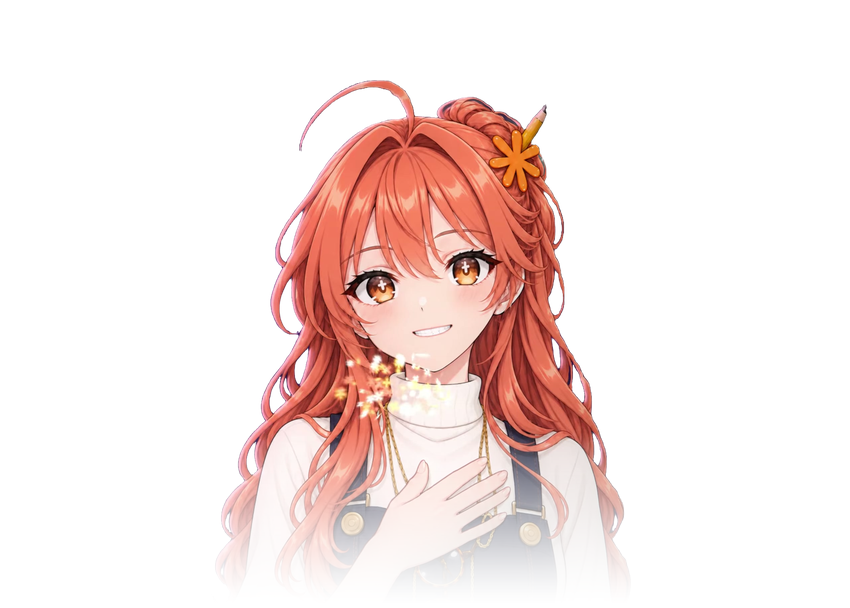
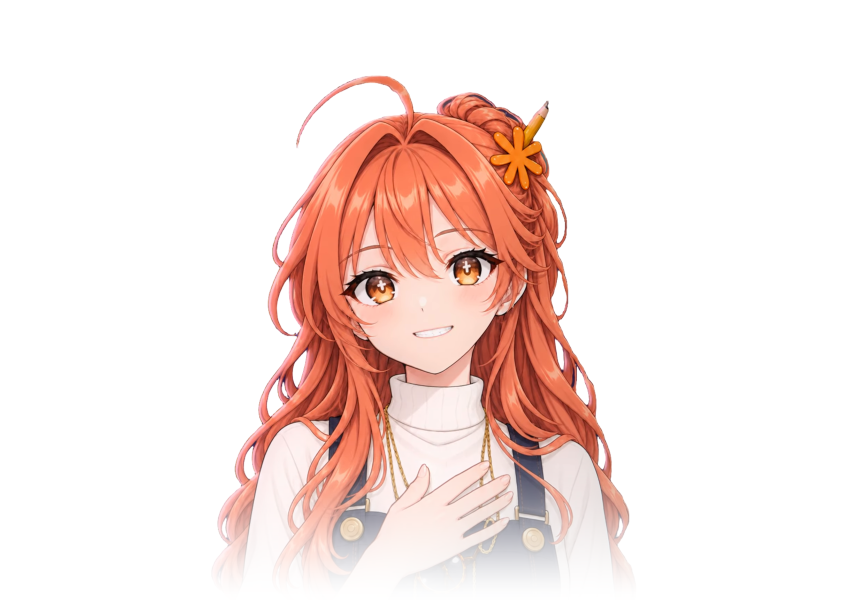
fix(overlay): 🐛 Eye-aligned sprites with unified colors and a working Ctrl+C

Changed region(s): [[0.2447, 0.125, 0.7647, 0.9062], [0.3365, 0.1875, 0.3671, 0.25], [0.3671, 0.1562, 0.3976, 0.1875]]

diff --git a/prototypes/overlay_demo.py b/prototypes/overlay_demo.py
@@ -1,10 +1,11 @@
 """ Overlay spike: the avatar pops up in the bottom-right corner, plays through her expressions, blinks and moves her mouth.
 
 A click opens the Remote Control session, a long press lets you drag her somewhere else.
-Run with `uv run prototypes/overlay_demo.py`, close with a right click.
+Run with `uv run prototypes/overlay_demo.py`, close with a right click or Ctrl+C.
 """
 # Imports
 import random
+import signal
 import sys
 import webbrowser
 from dataclasses import dataclass
@@ -18,7 +19,7 @@ from PySide6.QtWidgets import QApplication, QWidget
 # Constants
 ASSETS: Path = Path(__file__).resolve().parent.parent / "assets" / "claude"
 SPRITE_HEIGHT: int = 400
-""" Display height of the idle pose; every sprite gets the same scale so her face never jumps. """
+""" Display height of the sprites, which all share one canvas with her eyes on the same pixels. """
 BUBBLE_WIDTH: int = 250
 SPRITE_TOP: int = 24
 FACE_Y: float = 0.49
@@ -29,8 +30,8 @@ CLICK_SLOP: int = 6
 REMOTE_URL: str = "https://claude.ai/code"
 """ The real app opens the URL of the session it hosts, read from the hidden Claude Code terminal. """
 TALK_FRAMES: dict[str, tuple[str, ...]] = {
-	"idle": ("idle", "idle_talk_wide", "idle_talk_o"),
-	"hello": ("hello", "hello_o"),
+	"idle": ("idle", "idle_talk_open", "idle_talk_o", "idle_talk_wide"),
+	"hello": ("hello", "hello_talk_open", "hello_talk_o", "hello_talk_wide"),
 }
 """ Mouth frames of the poses that can talk. """
 
@@ -51,12 +52,9 @@ class Avatar(QWidget):
 		self.setAttribute(Qt.WidgetAttribute.WA_TranslucentBackground)
 		self.setAttribute(Qt.WidgetAttribute.WA_ShowWithoutActivating)
 		ratio = QGuiApplication.primaryScreen().devicePixelRatio()
-		scale = SPRITE_HEIGHT * ratio / QPixmap(str(ASSETS / "idle.png")).height()
 		self.sprites: dict[str, QPixmap] = {}
 		for path in ASSETS.glob("*.png"):
-			source = QPixmap(str(path))
-			size = (round(source.width() * scale), round(source.height() * scale))
-			pixmap = source.scaled(*size, Qt.AspectRatioMode.IgnoreAspectRatio, Qt.TransformationMode.SmoothTransformation)
+			pixmap = QPixmap(str(path)).scaledToHeight(round(SPRITE_HEIGHT * ratio), Qt.TransformationMode.SmoothTransformation)
 			pixmap.setDevicePixelRatio(ratio)
 			self.sprites[path.stem] = pixmap
 		self.sprite_width = round(self.sprites["idle"].width() / ratio)
@@ -193,16 +191,16 @@ class Avatar(QWidget):
 
 class Demo:
 	BEATS: ClassVar[list[Beat]] = [
-		Beat(expression="hello",           bubble="Coucou ! Tu m'as appelée ?",                duration_ms=2600, talking=True),
-		Beat(expression="idle",            bubble="",                                          duration_ms=3000),
-		Beat(expression="idle",            bubble="Je regarde ça tout de suite...",            duration_ms=3200, talking=True),
-		Beat(expression="closeup_curious", bubble="Hmm, laisse-moi réfléchir.",                duration_ms=2400),
-		Beat(expression="present",         bubble="Voilà, c'est fait !",                       duration_ms=2200),
-		Beat(expression="please",          bubble="J'ai besoin de ton accord pour continuer.", duration_ms=3000),
-		Beat(expression="thanks",          bubble="Merci !",                                   duration_ms=1800),
-		Beat(expression="surprised",       bubble="Oh !",                                      duration_ms=1500),
-		Beat(expression="happy",           bubble="",                                          duration_ms=1800),
-		Beat(expression="point",           bubble="Clique sur moi pour ouvrir la session.",    duration_ms=3000),
+		Beat(expression="hello",     bubble="Coucou ! Tu m'as appelée ?",                duration_ms=2600, talking=True),
+		Beat(expression="idle",      bubble="",                                          duration_ms=3000),
+		Beat(expression="idle",      bubble="Je regarde ça tout de suite...",            duration_ms=3200, talking=True),
+		Beat(expression="point",     bubble="Hmm, laisse-moi réfléchir.",                duration_ms=2400),
+		Beat(expression="present",   bubble="Voilà, c'est fait !",                       duration_ms=2200),
+		Beat(expression="please",    bubble="J'ai besoin de ton accord pour continuer.", duration_ms=3000),
+		Beat(expression="thanks",    bubble="Merci !",                                   duration_ms=1800),
+		Beat(expression="surprised", bubble="Oh !",                                      duration_ms=1500),
+		Beat(expression="happy",     bubble="",                                          duration_ms=1800),
+		Beat(expression="stand",     bubble="Clique sur moi pour ouvrir la session.",    duration_ms=3000),
 	]
 
 	def __init__(self, avatar: Avatar) -> None:
@@ -227,6 +225,8 @@ class Demo:
 
 # Functions
 def main() -> None:
+	# Qt's event loop never hands control back to Python's KeyboardInterrupt, so let Ctrl+C end the process directly
+	signal.signal(signal.SIGINT, signal.SIG_DFL)
 	app = QApplication(sys.argv)
 	demo = Demo(Avatar())
 	demo.restart()
